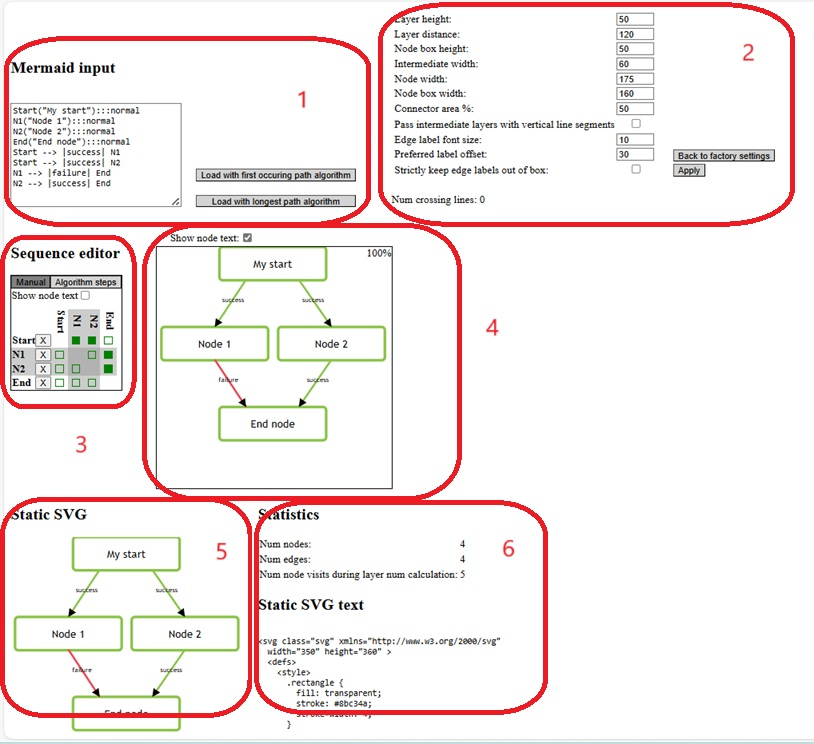
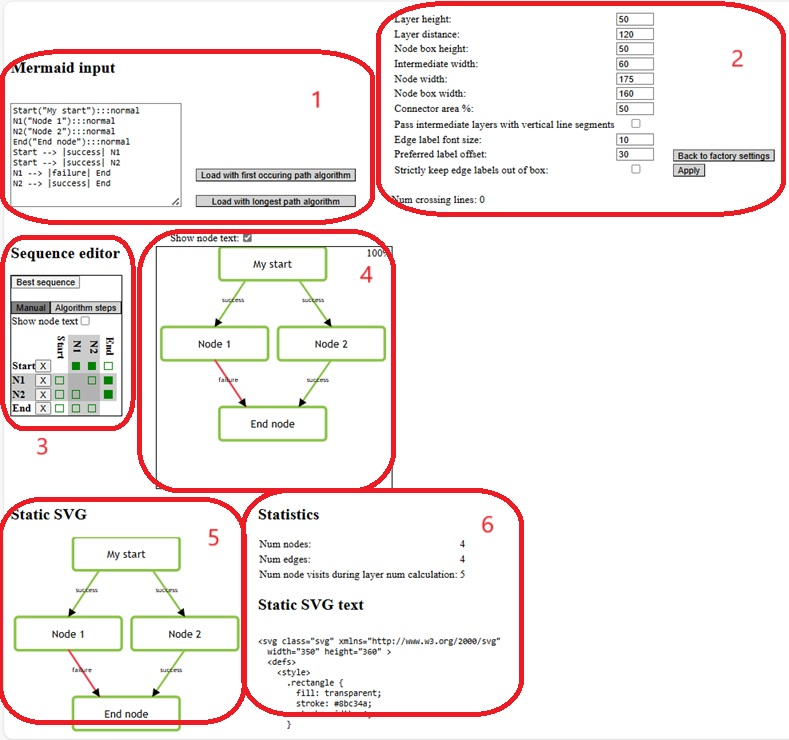
Finish top-level README.md

Changed region(s): [[0.0, 0.0, 1.0, 1.0]]

diff --git a/README.md b/README.md
@@ -14,29 +14,23 @@ Please keep in mind that "Frank config layout" takes Mermaid text as input and t
 
 To the top-left (number 1), you see a text field to enter Mermaid input. To get started, you can use the examples from [simpleMermaid.txt](./src/assets/simpleMermaid.txt) or [mermaid.txt](./src/assets/mermaid.txt). To get a drawing for the entered Mermaid text, press "Load with longest path algorithm". The button "Load with first occuring path algorithm" exists for historical reasons and is not so important.
 
-The button divides the nodes defined in the Mermaid text over horizontal layers that are stacked vertically. The nodes in the first layer are on top; the nodes on the second layer are below that, et cetera. It does not optimize the sequence of the nodes within each layer.
+To the top-right (number 2) you can experiment with the dimensions applied. You can edit dimensions after loading Mermaid.
 
-You can use the panel on the middle-left (number 3) to manipulate the sequence of the nodes within each layer. The resulting drawing is shown next to it (number 4).
+When Mermaid is loaded, the nodes are assigned to horizontal layers that are stacked vertically. The nodes in the first layer are on top; the nodes on the second layer are below that, et cetera. It does not automatically optimize the sequence of the nodes within each layer. Press "Best sequence" to the top of the sequence editor to get the best sequence as is done for the static SVG.
 
-The sequence editor (number 3) supports two methods to manipulate the sequence of the nodes. In tab "Manual", you can drag and drop rows to move nodes to different (horizontal) positions within their layer. You can also remove nodes here to see how the picture would look without them. In tab "Algorithm steps", you can align the nodes while fixing the sequence within a chosen layer. Each button shows how the number of crossing lines will be changed. These are the same steps as performed by the library "Frank config layout". The library aligns on the layer for which aligning result in the biggest reduction of the number of crossing lines. It does so repeatedly until no reduction is possible anymore. In tab "Algorithm steps" you can apply the library's algorithm in a few clicks.
+The sequence editor (number 3) has been introduced to experiment with the sequence of the nodes within each layer. The resulting drawing is shown next to it (number 4). 
 
-The result of applying the library is shown to the bottom. To the left (number 5) you see the drawing and to the right (number 6) you see the text of the SVG.
+The sequence editor supports two methods to experiment with the sequence of the nodes. In tab "Manual", you can drag and drop rows to move nodes to different (horizontal) positions within their layer. You can also remove nodes here to see how the picture would look without them. In tab "Algorithm steps", you can align the nodes while fixing the sequence within a chosen layer. Each button shows how the number of crossing lines will be changed. These are the same steps as performed by the library "Frank config layout". The library aligns on the layer for which aligning results in the biggest reduction of the number of crossing lines. It does so repeatedly until no reduction is possible anymore.
 
-To the top-right (number 2) you can experiment with the dimensions applied. These dimensions are applied to the result produced by the sequence editor (number 4) but not the static SVG shown to the bottom (numbers 5 and 6).
+The static SVG is shown to the bottom. Area number 5 to the bottom-left is the picture that would also be generated in the Frank!Framework. Next to this (number 6) you see the text of the SVG so you can copy-paste it. This is very useful for creating unit tests.
 
 # Configuration management
 
-Building, testing and publishing is done completely using the scripts of the top-level [package.json](./package.json). Below it is explained how to use the scripts for actions you want to perform.
+Building, testing and publishing is done completely using the scripts of the top-level [package.json](./package.json). They speak for themselves if you have some experience with developing Angular applications. To get started, you can do the following:
 
-### Serve
-Run `npm start` to build "Frank config layout" first and then serve "Frank config layout playground".
+* `npm ci` to install dependencies.
+* `npm run build` to build "Frank config layout".
+* `npm run test` to run the unit tests of "Frank config layout playground".
+* `npm run testLib` to run the unit tests of "Frank config layout".
 
-### Serve with live hot-reload
-Run `npm run watch` to build "Frank config layout" on every change. Then in a new terminal run `npm start` to serve "Frank config layout playground".
-
-### Build
-Run `npm run build` to build "Frank config layout" using ng-packagr. The build artifacts will be stored in the `dist/frank-config-layout` directory.
-
-### Publishing
-Run `npm publish -otp <your 6-digit code>` in the `dist/frank-config-layout/` directory in order to publish the library to a package registry. Get the six-digit code using the Google authenticator on your phone.
-
+If you have build "Frank config layout", you can publish it on https://www.npmjs.com/ as follows. Go to folder `dist/frank-config-layout`. Do `npm publish -otp <code from your telephone>` there. The code from your telephone is needed because of two-factor authentication and comes from the Google authenticator.
